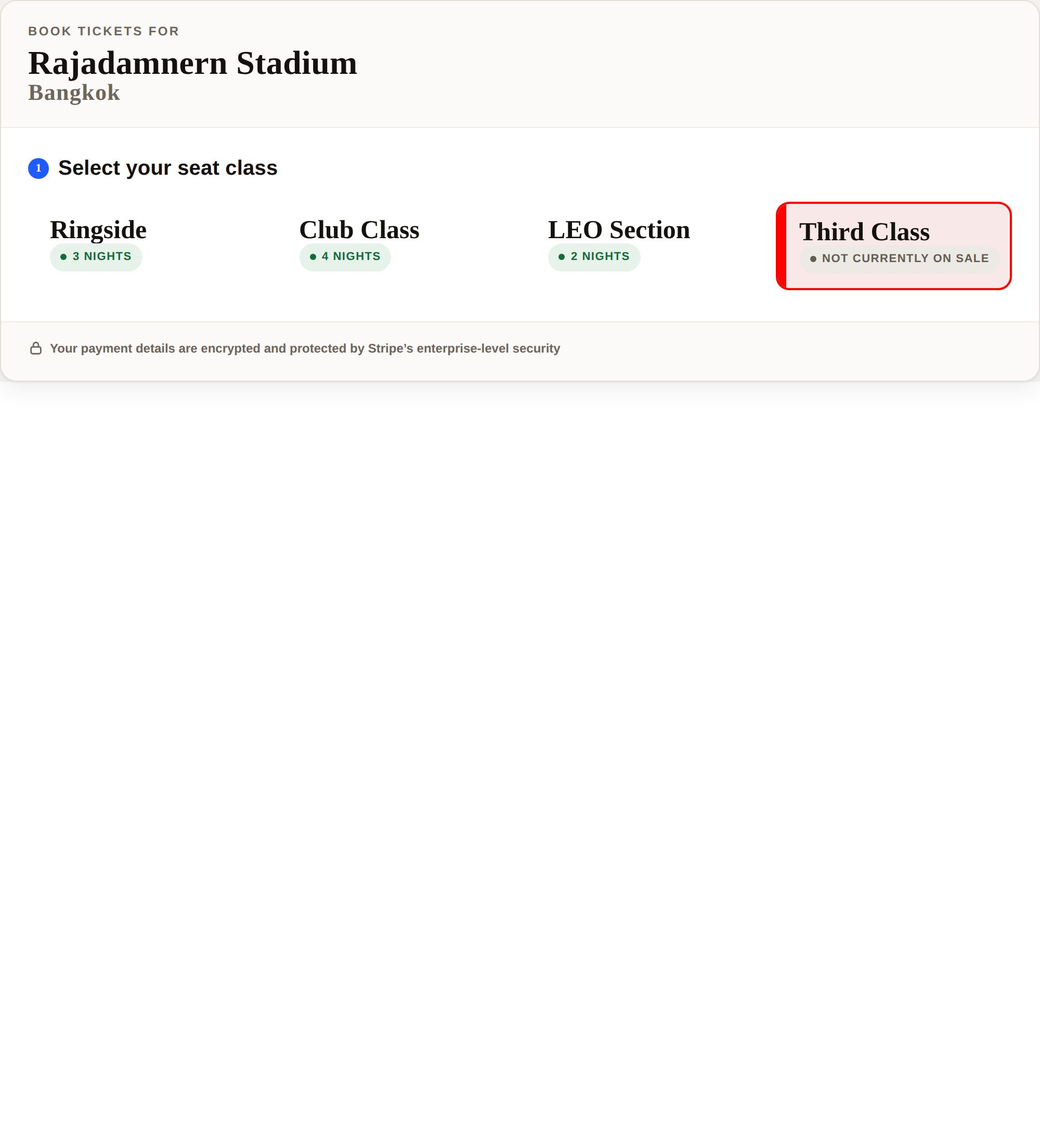
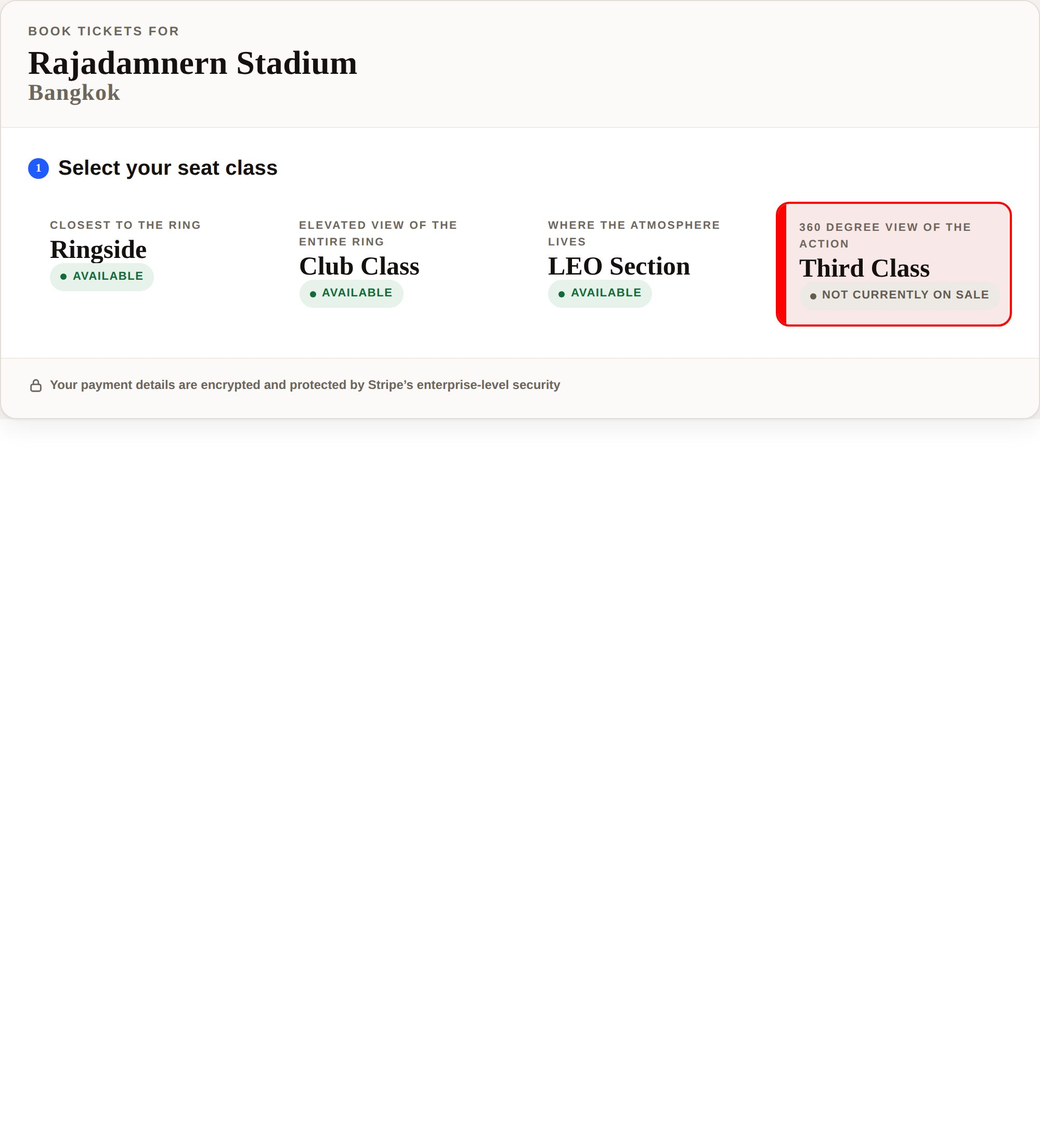
Seating page and widget: one strapline, the facts, nothing else
The seat class graphics set the standard: a name, one line, and no padding.
Ringside is "Closest to the ring". That is the whole idea, and the page and
the widget now follow it.

Seating page:
- The trust strip goes. Two sentences of reassurance nobody asked for.
- "Assigned seat, allocated from the front row backwards", "Assigned,
  numbered seat. Staff can walk you to it." and both unassigned lines go
  from all four cards. Assigned and unassigned are trade words, and most
  guests reading this page do not have English as a first language.
- The "Feels like" and "Suits" paragraphs go with them. They are page copy,
  not card copy, and on a tile they read as filler.
- Each card is now the strapline from its own graphic, the sections, the
  price, and a blue Book button.
- Every card button was pointing at a class page that does not exist yet, so
  four links were broken the moment the page went live. They book the class
  at the widget on the page instead. Six more links to those same unbuilt
  pages are gone from the body copy, wording kept.

Widget:
- The seat tiles counted nights: "Ringside, 97 nights". A guest choosing a
  class has not picked a date, so the number answered a question nobody had
  asked and read like stock control. Available, or not currently on sale.
- Each tile carries its strapline, so the widget and the graphics say the
  same thing.
- ticket_classes now holds the four straplines and the section line and
[…]

diff --git a/pages/seating/seats-source.html b/pages/seating/seats-source.html
@@ -123,15 +123,6 @@
 .mtx-ss__band--dark p { color: #d3d4da; }
 .mtx-ss__ctarow { margin-top: 26px; display: flex; flex-wrap: wrap; gap: 12px; }
 
-/* Trust strip. One line, its own thin band, so it reads as a statement rather
-   than as the first paragraph of the page. */
-.mtx-ss__trust { background: var(--ss-ink); color: #fff; padding: 16px 0; }
-.mtx-ss .mtx-ss__trust p {
-  max-width: none; margin-top: 0 !important; font-size: 15.5px; color: #d3d4da;
-  display: flex; align-items: baseline; gap: 10px; flex-wrap: wrap;
-}
-.mtx-ss__trust b { color: #fff; font-weight: 700; }
-
 /* The four seat-class cards. Identical layout on each so a guest on a phone
    compares by scrolling once, which is what the brief asks for instead of a
    table. Each carries its class colour as a bar and a section badge. */
@@ -150,6 +141,15 @@
 .mtx-ss__card h3 { margin-top: 22px; font-size: 25px; }
 /* The section numbers, in the class colour, because "Section 10" is the fact
    guests search for and the one that tells them where they will be. */
+/* The strapline. One line, in the class colour, the way the seat-class
+   graphics carry it. It is the only line of selling on the card. */
+.mtx-ss .mtx-ss__strap {
+  margin-top: 8px !important;
+  font-family: "Barlow Condensed", "Arial Narrow", sans-serif; font-weight: 800;
+  font-size: 19px; line-height: 1.12; text-transform: uppercase; letter-spacing: .02em;
+  color: var(--ss-ink); max-width: none;
+}
+
 .mtx-ss__where {
   display: inline-flex; align-items: center; gap: 9px; align-self: flex-start;
   margin-top: 10px; padding: 7px 12px; background: var(--ss-paper);
@@ -157,7 +157,6 @@
   font-family: "Barlow Condensed", "Arial Narrow", sans-serif; font-weight: 700;
   font-size: 13.5px; letter-spacing: .07em; text-transform: uppercase;
 }
-.mtx-ss .mtx-ss__seat { margin-top: 13px !important; font-size: 15.5px; font-weight: 600; }
 .mtx-ss .mtx-ss__card p { margin-top: 10px !important; font-size: 16px; color: var(--ss-muted); max-width: none; }
 .mtx-ss__card p b { color: var(--ss-ink); font-weight: 700; }
 .mtx-ss__price {
@@ -344,13 +343,6 @@
     </div>
   </section>
 
-  <!-- 2. TRUST STRIP -->
-  <section class="mtx-ss__trust">
-    <div class="mtx-ss__shell">
-      <p><b>MuayTix is the international ticket partner for Rajadamnern Stadium.</b> Every booking comes with MuayTix seat and row guidance, so you sit where you meant to.</p>
-    </div>
-  </section>
-
   <!-- 3. THE FOUR SEAT CLASSES AT A GLANCE -->
   <section class="mtx-ss__band" id="compare">
     <div class="mtx-ss__shell">
@@ -369,13 +361,10 @@
             <div class="mtx-ss__shots-dots"></div>
           </div>
           <h3>Ringside</h3>
-          <span class="mtx-ss__where">Sections 3 to 7 &middot; Floor level, main arena</span>
-          <p class="mtx-ss__seat">Assigned seat, allocated from the front row backwards</p>
-          <p>The ring is a few metres away. You hear the strikes and the corner instructions.</p>
-          <p><b>Feels like:</b> a working fight-night floor. Corners, officials and broadcast crews are all around you.</p>
-          <p><b>Suits:</b> fight fans who want maximum proximity, groups who want to sit together close to the ring, photographers who want close-range angles</p>
+          <p class="mtx-ss__strap">Closest to the ring</p>
+          <span class="mtx-ss__where">Sections 3 to 7</span>
           <p class="mtx-ss__price">2,500 THB</p>
-          <p class="mtx-ss__cardcta"><a class="mtx-ss__btn mtx-ss__btn--outline" href="/rajadamnern-stadium-seats/ringside">See Ringside seats and view</a></p>
+          <p class="mtx-ss__cardcta"><a class="mtx-ss__btn mtx-ss__btn--blue" href="#book">Book Ringside</a></p>
         </article>
 
         <article class="mtx-ss__card" style="--ss-c: var(--ss-club)">
@@ -388,13 +377,10 @@
             <div class="mtx-ss__shots-dots"></div>
           </div>
           <h3>Club Class</h3>
-          <span class="mtx-ss__where">Sections 8 and 9 &middot; Elevated tier, main arena</span>
-          <p class="mtx-ss__seat">Assigned, numbered seat. Staff can walk you to it.</p>
-          <p>Looks down across the whole ring, with the walkouts and corners in view.</p>
-          <p><b>Feels like:</b> busy and atmospheric on a full night, and the easiest section for families and groups. Toilets, food and drink are close by.</p>
-          <p><b>Suits:</b> first-time guests, families with children, anyone who wants a dependable all-round choice. Around 55 per cent of MuayTix guests choose Club Class.</p>
+          <p class="mtx-ss__strap">Elevated view of the entire ring</p>
+          <span class="mtx-ss__where">Sections 8 and 9</span>
           <p class="mtx-ss__price">1,800 THB</p>
-          <p class="mtx-ss__cardcta"><a class="mtx-ss__btn mtx-ss__btn--outline" href="/rajadamnern-stadium-seats/club-class">See Club Class seats and view</a></p>
+          <p class="mtx-ss__cardcta"><a class="mtx-ss__btn mtx-ss__btn--blue" href="#book">Book Club Class</a></p>
         </article>
 
         <article class="mtx-ss__card" style="--ss-c: var(--ss-leo)">
@@ -406,13 +392,10 @@
             <div class="mtx-ss__shots-dots"></div>
           </div>
           <h3>LEO Section</h3>
-          <span class="mtx-ss__where">Section 10 &middot; Elevated tier, facing the front of the ring</span>
-          <p class="mtx-ss__seat">Unassigned seating, seat guaranteed. Choose where to sit when you arrive.</p>
-          <p>The broadcast cameras and commentary team sit here, which tells you how good the front-facing view is.</p>
-          <p><b>Feels like:</b> where the atmosphere lives. On Wednesday, Thursday and Sunday it is the home of local Thai fight fans and the betting crowd.</p>
-          <p><b>Suits:</b> couples, solo travellers and groups who like choosing their own spot, repeat visitors, anyone who wants the local fight-night feel</p>
+          <p class="mtx-ss__strap">Where the atmosphere lives</p>
+          <span class="mtx-ss__where">Section 10</span>
           <p class="mtx-ss__price">1,500 THB</p>
-          <p class="mtx-ss__cardcta"><a class="mtx-ss__btn mtx-ss__btn--outline" href="/rajadamnern-stadium-seats/leo-section">See the LEO Section and view</a></p>
+          <p class="mtx-ss__cardcta"><a class="mtx-ss__btn mtx-ss__btn--blue" href="#book">Book LEO Section</a></p>
         </article>
 
         <article class="mtx-ss__card" style="--ss-c: var(--ss-third)">
@@ -423,13 +406,10 @@
             <div class="mtx-ss__shots-dots"></div>
           </div>
           <h3>Third Class</h3>
-          <span class="mtx-ss__where">Section 11 &middot; Upper tier, the highest point in the stadium</span>
-          <p class="mtx-ss__seat">Unassigned seating, seat guaranteed</p>
-          <p>A wide view over the whole arena: ring, walkout, corners and crowd in one picture.</p>
-          <p><b>Feels like:</b> being inside Rajadamnern on a big night. Third Class opens as the stadium fills, so it is at its best when the building is full.</p>
-          <p><b>Suits:</b> guests who want the full-stadium perspective, repeat visitors after a different angle, photographers who want a high, wide shot</p>
+          <p class="mtx-ss__strap">360 degree view of the action</p>
+          <span class="mtx-ss__where">Section 11</span>
           <p class="mtx-ss__price">1,000 THB<small>Opens on selected nights only.</small></p>
-          <p class="mtx-ss__cardcta"><a class="mtx-ss__btn mtx-ss__btn--outline" href="/rajadamnern-stadium-seats/third-class">See Third Class seats and view</a></p>
+          <p class="mtx-ss__cardcta"><a class="mtx-ss__btn mtx-ss__btn--blue" href="#book">Book Third Class</a></p>
         </article>
 
       </div>
@@ -463,19 +443,19 @@
       <div class="mtx-ss__picks">
         <div class="mtx-ss__pick">
           <h3>Best for being as close as possible</h3>
-          <p>Ringside. Sections 3 to 7 sit on the floor of the main arena, a few metres from the ropes. If you want to feel the impact of every strike, this is the section. Sections 3 and 4 sit either side of the fighter entrance walkway, so they are the closest seats to the walkouts. <a class="mtx-ss__go" href="/rajadamnern-stadium-seats/ringside">Ringside seats at Rajadamnern</a></p>
+          <p>Ringside. Sections 3 to 7 sit on the floor of the main arena, a few metres from the ropes. If you want to feel the impact of every strike, this is the section. Sections 3 and 4 sit either side of the fighter entrance walkway, so they are the closest seats to the walkouts.</p>
         </div>
         <div class="mtx-ss__pick">
           <h3>Best for a numbered seat and an easy night</h3>
-          <p>Club Class. Sections 8 and 9 are elevated, every seat is numbered, and facilities are a short walk away. It is the most popular choice with MuayTix guests and the most straightforward option for families. <a class="mtx-ss__go" href="/rajadamnern-stadium-seats/club-class">Club Class, Sections 8 and 9</a></p>
+          <p>Club Class. Sections 8 and 9 are elevated, every seat is numbered, and facilities are a short walk away. It is the most popular choice with MuayTix guests and the most straightforward option for families.</p>
         </div>
         <div class="mtx-ss__pick">
           <h3>Best for atmosphere</h3>
-          <p>LEO Section. Section 10 faces the front of the ring and is where the local fight fans gather on the three traditional Muay Thai nights: Wednesday, Thursday and Sunday. It is also where the broadcast cameras sit, so the view straight down the ring is the one you see on television. <a class="mtx-ss__go" href="/rajadamnern-stadium-seats/leo-section">LEO Section, Section 10</a></p>
+          <p>LEO Section. Section 10 faces the front of the ring and is where the local fight fans gather on the three traditional Muay Thai nights: Wednesday, Thursday and Sunday. It is also where the broadcast cameras sit, so the view straight down the ring is the one you see on television.</p>
         </div>
         <div class="mtx-ss__pick">
           <h3>Best for seeing the whole stadium</h3>
-          <p>Third Class. Section 11 is the top of the building and shows you the entire arena at once. It opens when demand fills the main arena, which is exactly when the atmosphere is at its strongest. <a class="mtx-ss__go" href="/rajadamnern-stadium-seats/third-class">Third Class, Section 11</a></p>
+          <p>Third Class. Section 11 is the top of the building and shows you the entire arena at once. It opens when demand fills the main arena, which is exactly when the atmosphere is at its strongest.</p>
         </div>
       </div>
     </div>
@@ -550,7 +530,7 @@
       <span class="mtx-ss__kicker">Seating explained</span>
       <h2>Assigned and unassigned seating explained</h2>
       <p>Ringside and Club Class are assigned. Your seat number is on your ticket.</p>
-      <p>LEO Section and Third Class are unassigned. That means you choose where to sit within the section when you arrive. It does not mean seating is limited and it does not mean anyone stands. There are no standing areas at Rajadamnern Stadium, and every ticket guarantees a seat. <a class="mtx-ss__go" href="/rajadamnern-stadium-seats/leo-section">How unassigned seating works in the LEO Section</a></p>
+      <p>LEO Section and Third Class are unassigned. That means you choose where to sit within the section when you arrive. It does not mean seating is limited and it does not mean anyone stands. There are no standing areas at Rajadamnern Stadium, and every ticket guarantees a seat.</p>
     </div>
   </section>
 

diff --git a/pages/seating/body-a.html b/pages/seating/body-a.html
@@ -16,13 +16,6 @@
     </div>
   </section>
 
-  <!-- 2. TRUST STRIP -->
-  <section class="mtx-ss__trust">
-    <div class="mtx-ss__shell">
-      <p><b>MuayTix is the international ticket partner for Rajadamnern Stadium.</b> Every booking comes with MuayTix seat and row guidance, so you sit where you meant to.</p>
-    </div>
-  </section>
-
   <!-- 3. THE FOUR SEAT CLASSES AT A GLANCE -->
   <section class="mtx-ss__band" id="compare">
     <div class="mtx-ss__shell">
@@ -41,13 +34,10 @@
             <div class="mtx-ss__shots-dots"></div>
           </div>
           <h3>Ringside</h3>
-          <span class="mtx-ss__where">Sections 3 to 7 &middot; Floor level, main arena</span>
-          <p class="mtx-ss__seat">Assigned seat, allocated from the front row backwards</p>
-          <p>The ring is a few metres away. You hear the strikes and the corner instructions.</p>
-          <p><b>Feels like:</b> a working fight-night floor. Corners, officials and broadcast crews are all around you.</p>
-          <p><b>Suits:</b> fight fans who want maximum proximity, groups who want to sit together close to the ring, photographers who want close-range angles</p>
+          <p class="mtx-ss__strap">Closest to the ring</p>
+          <span class="mtx-ss__where">Sections 3 to 7</span>
           <p class="mtx-ss__price">2,500 THB</p>
-          <p class="mtx-ss__cardcta"><a class="mtx-ss__btn mtx-ss__btn--outline" href="/rajadamnern-stadium-seats/ringside">See Ringside seats and view</a></p>
+          <p class="mtx-ss__cardcta"><a class="mtx-ss__btn mtx-ss__btn--blue" href="#book">Book Ringside</a></p>
         </article>
 
         <article class="mtx-ss__card" style="--ss-c: var(--ss-club)">
@@ -60,13 +50,10 @@
             <div class="mtx-ss__shots-dots"></div>
           </div>
           <h3>Club Class</h3>
-          <span class="mtx-ss__where">Sections 8 and 9 &middot; Elevated tier, main arena</span>
-          <p class="mtx-ss__seat">Assigned, numbered seat. Staff can walk you to it.</p>
-          <p>Looks down across the whole ring, with the walkouts and corners in view.</p>
-          <p><b>Feels like:</b> busy and atmospheric on a full night, and the easiest section for families and groups. Toilets, food and drink are close by.</p>
-          <p><b>Suits:</b> first-time guests, families with children, anyone who wants a dependable all-round choice. Around 55 per cent of MuayTix guests choose Club Class.</p>
+          <p class="mtx-ss__strap">Elevated view of the entire ring</p>
+          <span class="mtx-ss__where">Sections 8 and 9</span>
           <p class="mtx-ss__price">1,800 THB</p>
-          <p class="mtx-ss__cardcta"><a class="mtx-ss__btn mtx-ss__btn--outline" href="/rajadamnern-stadium-seats/club-class">See Club Class seats and view</a></p>
+          <p class="mtx-ss__cardcta"><a class="mtx-ss__btn mtx-ss__btn--blue" href="#book">Book Club Class</a></p>
         </article>
 
         <article class="mtx-ss__card" style="--ss-c: var(--ss-leo)">
@@ -78,13 +65,10 @@
             <div class="mtx-ss__shots-dots"></div>
           </div>
           <h3>LEO Section</h3>
-          <span class="mtx-ss__where">Section 10 &middot; Elevated tier, facing the front of the ring</span>
-          <p class="mtx-ss__seat">Unassigned seating, seat guaranteed. Choose where to sit when you arrive.</p>
-          <p>The broadcast cameras and commentary team sit here, which tells you how good the front-facing view is.</p>
-          <p><b>Feels like:</b> where the atmosphere lives. On Wednesday, Thursday and Sunday it is the home of local Thai fight fans and the betting crowd.</p>
-          <p><b>Suits:</b> couples, solo travellers and groups who like choosing their own spot, repeat visitors, anyone who wants the local fight-night feel</p>
+          <p class="mtx-ss__strap">Where the atmosphere lives</p>
+          <span class="mtx-ss__where">Section 10</span>
           <p class="mtx-ss__price">1,500 THB</p>
-          <p class="mtx-ss__cardcta"><a class="mtx-ss__btn mtx-ss__btn--outline" href="/rajadamnern-stadium-seats/leo-section">See the LEO Section and view</a></p>
+          <p class="mtx-ss__cardcta"><a class="mtx-ss__btn mtx-ss__btn--blue" href="#book">Book LEO Section</a></p>
         </article>
 
         <article class="mtx-ss__card" style="--ss-c: var(--ss-third)">
@@ -95,13 +79,10 @@
             <div class="mtx-ss__shots-dots"></div>
           </div>
           <h3>Third Class</h3>
-          <span class="mtx-ss__where">Section 11 &middot; Upper tier, the highest point in the stadium</span>
-          <p class="mtx-ss__seat">Unassigned seating, seat guaranteed</p>
-          <p>A wide view over the whole arena: ring, walkout, corners and crowd in one picture.</p>
-          <p><b>Feels like:</b> being inside Rajadamnern on a big night. Third Class opens as the stadium fills, so it is at its best when the building is full.</p>
-          <p><b>Suits:</b> guests who want the full-stadium perspective, repeat visitors after a different angle, photographers who want a high, wide shot</p>
+          <p class="mtx-ss__strap">360 degree view of the action</p>
+          <span class="mtx-ss__where">Section 11</span>
           <p class="mtx-ss__price">1,000 THB<small>Opens on selected nights only.</small></p>
-          <p class="mtx-ss__cardcta"><a class="mtx-ss__btn mtx-ss__btn--outline" href="/rajadamnern-stadium-seats/third-class">See Third Class seats and view</a></p>
+          <p class="mtx-ss__cardcta"><a class="mtx-ss__btn mtx-ss__btn--blue" href="#book">Book Third Class</a></p>
         </article>
 
       </div>

diff --git a/pages/seating/body-b.html b/pages/seating/body-b.html
@@ -9,19 +9,19 @@
       <div class="mtx-ss__picks">
         <div class="mtx-ss__pick">
           <h3>Best for being as close as possible</h3>
-          <p>Ringside. Sections 3 to 7 sit on the floor of the main arena, a few metres from the ropes. If you want to feel the impact of every strike, this is the section. Sections 3 and 4 sit either side of the fighter entrance walkway, so they are the closest seats to the walkouts. <a class="mtx-ss__go" href="/rajadamnern-stadium-seats/ringside">Ringside seats at Rajadamnern</a></p>
+          <p>Ringside. Sections 3 to 7 sit on the floor of the main arena, a few metres from the ropes. If you want to feel the impact of every strike, this is the section. Sections 3 and 4 sit either side of the fighter entrance walkway, so they are the closest seats to the walkouts.</p>
         </div>
         <div class="mtx-ss__pick">
           <h3>Best for a numbered seat and an easy night</h3>
-          <p>Club Class. Sections 8 and 9 are elevated, every seat is numbered, and facilities are a short walk away. It is the most popular choice with MuayTix guests and the most straightforward option for families. <a class="mtx-ss__go" href="/rajadamnern-stadium-seats/club-class">Club Class, Sections 8 and 9</a></p>
+          <p>Club Class. Sections 8 and 9 are elevated, every seat is numbered, and facilities are a short walk away. It is the most popular choice with MuayTix guests and the most straightforward option for families.</p>
         </div>
         <div class="mtx-ss__pick">
           <h3>Best for atmosphere</h3>
-          <p>LEO Section. Section 10 faces the front of the ring and is where the local fight fans gather on the three traditional Muay Thai nights: Wednesday, Thursday and Sunday. It is also where the broadcast cameras sit, so the view straight down the ring is the one you see on television. <a class="mtx-ss__go" href="/rajadamnern-stadium-seats/leo-section">LEO Section, Section 10</a></p>
+          <p>LEO Section. Section 10 faces the front of the ring and is where the local fight fans gather on the three traditional Muay Thai nights: Wednesday, Thursday and Sunday. It is also where the broadcast cameras sit, so the view straight down the ring is the one you see on television.</p>
         </div>
         <div class="mtx-ss__pick">
           <h3>Best for seeing the whole stadium</h3>
-          <p>Third Class. Section 11 is the top of the building and shows you the entire arena at once. It opens when demand fills the main arena, which is exactly when the atmosphere is at its strongest. <a class="mtx-ss__go" href="/rajadamnern-stadium-seats/third-class">Third Class, Section 11</a></p>
+          <p>Third Class. Section 11 is the top of the building and shows you the entire arena at once. It opens when demand fills the main arena, which is exactly when the atmosphere is at its strongest.</p>
         </div>
       </div>
     </div>
@@ -96,6 +96,6 @@
       <span class="mtx-ss__kicker">Seating explained</span>
       <h2>Assigned and unassigned seating explained</h2>
       <p>Ringside and Club Class are assigned. Your seat number is on your ticket.</p>
-      <p>LEO Section and Third Class are unassigned. That means you choose where to sit within the section when you arrive. It does not mean seating is limited and it does not mean anyone stands. There are no standing areas at Rajadamnern Stadium, and every ticket guarantees a seat. <a class="mtx-ss__go" href="/rajadamnern-stadium-seats/leo-section">How unassigned seating works in the LEO Section</a></p>
+      <p>LEO Section and Third Class are unassigned. That means you choose where to sit within the section when you arrive. It does not mean seating is limited and it does not mean anyone stands. There are no standing areas at Rajadamnern Stadium, and every ticket guarantees a seat.</p>
     </div>
   </section>

diff --git a/pages/seating/style.css b/pages/seating/style.css
@@ -108,15 +108,6 @@
 .mtx-ss__band--dark p { color: #d3d4da; }
 .mtx-ss__ctarow { margin-top: 26px; display: flex; flex-wrap: wrap; gap: 12px; }
 
-/* Trust strip. One line, its own thin band, so it reads as a statement rather
-   than as the first paragraph of the page. */
-.mtx-ss__trust { background: var(--ss-ink); color: #fff; padding: 16px 0; }
-.mtx-ss .mtx-ss__trust p {
-  max-width: none; margin-top: 0 !important; font-size: 15.5px; color: #d3d4da;
-  display: flex; align-items: baseline; gap: 10px; flex-wrap: wrap;
-}
-.mtx-ss__trust b { color: #fff; font-weight: 700; }
-
 /* The four seat-class cards. Identical layout on each so a guest on a phone
    compares by scrolling once, which is what the brief asks for instead of a
    table. Each carries its class colour as a bar and a section badge. */
@@ -135,6 +126,15 @@
 .mtx-ss__card h3 { margin-top: 22px; font-size: 25px; }
 /* The section numbers, in the class colour, because "Section 10" is the fact
    guests search for and the one that tells them where they will be. */
+/* The strapline. One line, in the class colour, the way the seat-class
+   graphics carry it. It is the only line of selling on the card. */
+.mtx-ss .mtx-ss__strap {
+  margin-top: 8px !important;
+  font-family: "Barlow Condensed", "Arial Narrow", sans-serif; font-weight: 800;
+  font-size: 19px; line-height: 1.12; text-transform: uppercase; letter-spacing: .02em;
+  color: var(--ss-ink); max-width: none;
+}
+
 .mtx-ss__where {
   display: inline-flex; align-items: center; gap: 9px; align-self: flex-start;
   margin-top: 10px; padding: 7px 12px; background: var(--ss-paper);
@@ -142,7 +142,6 @@
   font-family: "Barlow Condensed", "Arial Narrow", sans-serif; font-weight: 700;
   font-size: 13.5px; letter-spacing: .07em; text-transform: uppercase;
 }
-.mtx-ss .mtx-ss__seat { margin-top: 13px !important; font-size: 15.5px; font-weight: 600; }
 .mtx-ss .mtx-ss__card p { margin-top: 10px !important; font-size: 16px; color: var(--ss-muted); max-width: none; }
 .mtx-ss__card p b { color: var(--ss-ink); font-weight: 700; }
 .mtx-ss__price {

diff --git a/agent-tix/widget/widget.js b/agent-tix/widget/widget.js
@@ -551,12 +551,18 @@ function mount(root, opts) {
           // A class open on no night at all is still shown, and still says so.
           // Removing it would leave a guest wondering where Third Class went.
           var off = c.nightsOnSale === 0;
+          // It used to count the nights: "Ringside, 97 nights". A guest
+          // choosing a seat class has not picked a date yet and does not care
+          // how many of the next eighteen months carry it -- the number told
+          // them nothing and read like stock control. Either it can be booked
+          // or it cannot.
           return '<button class="mtx-pick' + (off ? " mtx-pick--off" : "") + '" data-seat="' + esc(c.code) + '" ' +
                  'style="--c:' + esc(c.colour || "#6E655C") + ';--ci:' + esc(c.ink || "#3A342D") + '">' +
                  '<span class="mtx-pick-bar"></span>' +
+                 (c.tagline ? '<span class="mtx-pick-why">' + esc(c.tagline) + '</span>' : "") +
                  '<span class="mtx-pick-name">' + esc(c.name) + '</span>' +
                  '<span class="mtx-pill ' + (off ? "mtx-shut" : "mtx-ok") + '"><i></i>' +
-                   (off ? "Not currently on sale" : c.nightsOnSale + (c.nightsOnSale === 1 ? " night" : " nights")) +
+                   (off ? "Not currently on sale" : "Available") +
                  '</span></button>';
         }).join("") + '</div>' +
       '</section>'

diff --git a/agent-tix/widget/paste-into-tilda-header.html b/agent-tix/widget/paste-into-tilda-header.html
@@ -393,9 +393,10 @@ function mount(root, opts) {
           return '<button class="mtx-pick' + (off ? " mtx-pick--off" : "") + '" data-seat="' + esc(c.code) + '" ' +
                  'style="--c:' + esc(c.colour || "#6E655C") + ';--ci:' + esc(c.ink || "#3A342D") + '">' +
                  '<span class="mtx-pick-bar"></span>' +
+                 (c.tagline ? '<span class="mtx-pick-why">' + esc(c.tagline) + '</span>' : "") +
                  '<span class="mtx-pick-name">' + esc(c.name) + '</span>' +
                  '<span class="mtx-pill ' + (off ? "mtx-shut" : "mtx-ok") + '"><i></i>' +
-                   (off ? "Not currently on sale" : c.nightsOnSale + (c.nightsOnSale === 1 ? " night" : " nights")) +
+                   (off ? "Not currently on sale" : "Available") +
                  '</span></button>';
         }).join("") + '</div>' +
       '</section>'

diff --git a/agent-tix/widget/paste-into-tilda.html b/agent-tix/widget/paste-into-tilda.html
@@ -397,9 +397,10 @@ function mount(root, opts) {
           return '<button class="mtx-pick' + (off ? " mtx-pick--off" : "") + '" data-seat="' + esc(c.code) + '" ' +
                  'style="--c:' + esc(c.colour || "#6E655C") + ';--ci:' + esc(c.ink || "#3A342D") + '">' +
                  '<span class="mtx-pick-bar"></span>' +
+                 (c.tagline ? '<span class="mtx-pick-why">' + esc(c.tagline) + '</span>' : "") +
                  '<span class="mtx-pick-name">' + esc(c.name) + '</span>' +
                  '<span class="mtx-pill ' + (off ? "mtx-shut" : "mtx-ok") + '"><i></i>' +
-                   (off ? "Not currently on sale" : c.nightsOnSale + (c.nightsOnSale === 1 ? " night" : " nights")) +
+                   (off ? "Not currently on sale" : "Available") +
                  '</span></button>';
         }).join("") + '</div>' +
       '</section>'
